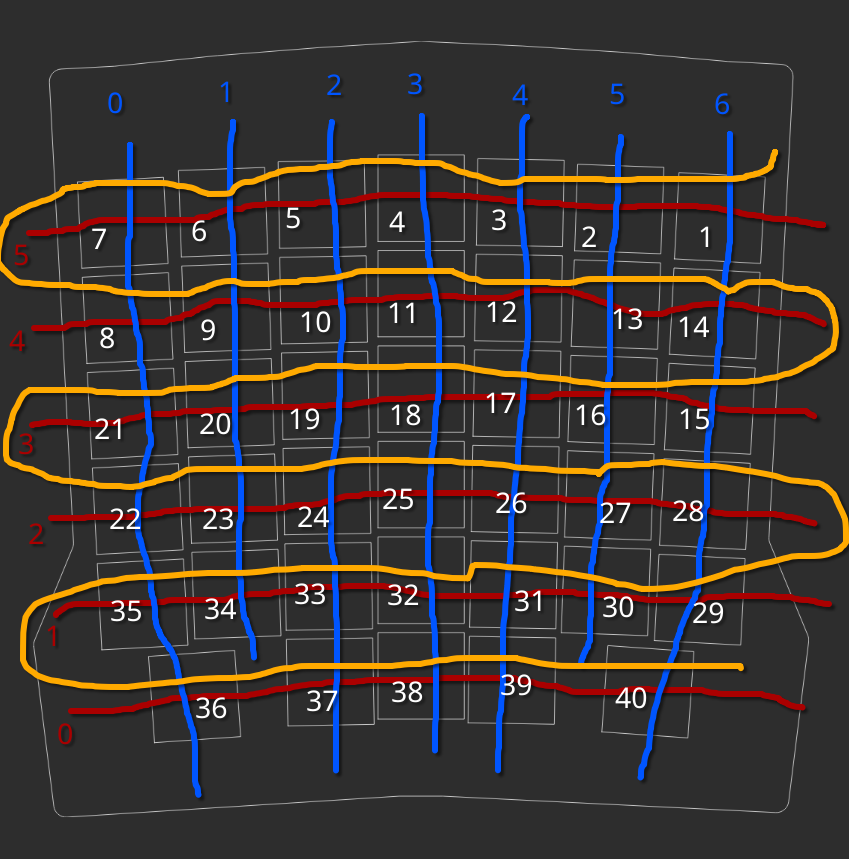
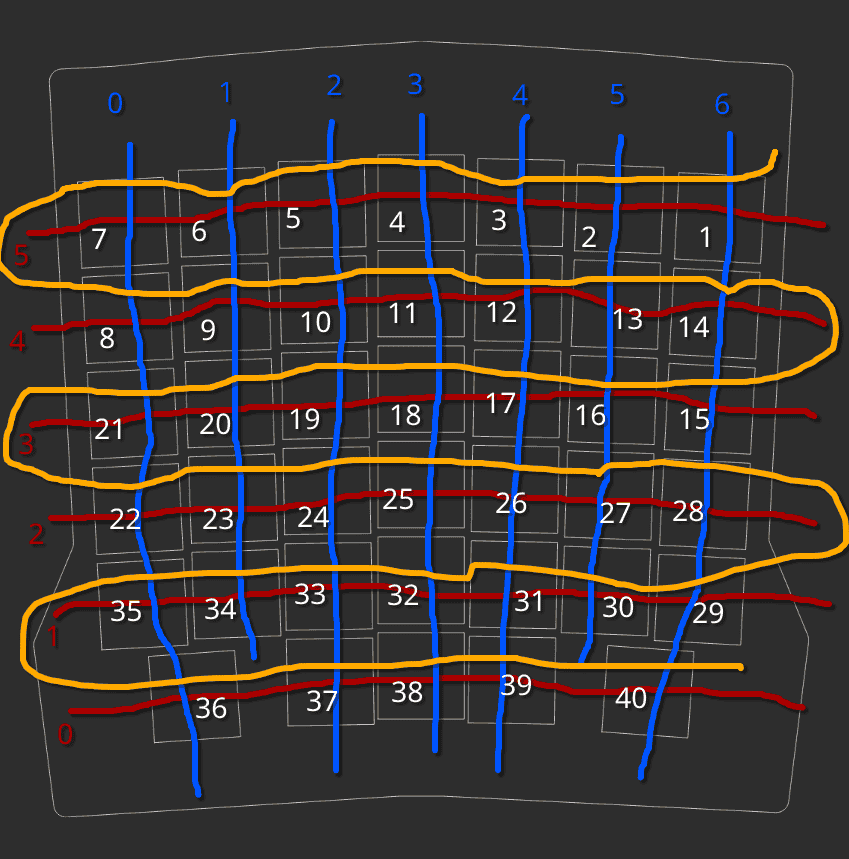
readme

diff --git a/README.md b/README.md
@@ -1,5 +1,29 @@
 # Travis's Ergogen v2026
-This is a split keyboard with 2 ortholinear symmetrical 40-key halfs. Multiple positions for an i2c OLED and mousewheel encoder.
+This is a split keyboard with 2 ortholinear symmetrical 40-key halfs made with Ergogen v4. Multiple positions for an i2c OLED and mousewheel encoder. TRRS for connecting halfs, firmware not updated for that yet though.
+
+![matrix mock up](./matrix-mock-up.png)
+
+![PCB front](./travis_erg2026_front.png)
+
+## Parts:
+
+JLCPCB SMD components (40 each per board):
+* capacitor C710467
+* diode C7420318
+* RGB LED C5378731
+* MX C41430893
+
+Other parts:
+* MCU: RP2040 Community Edition
+* capacitor 6.3V 1000uF
+* resistors 510k ohm (2 per board)
+* 2u stabilizers (2 per board)
+* TRRS PJ-320A jacks (2 per board if connecting)
+* mousewheel encoder (like Alps-EC10E1220501)
+* OLED i2c
+* MX switches (40 per board)
+* low-profile sockets/pins for MCU & OLED
+
 
 ## References:
 My previous ergogen abominations:
@@ -49,12 +73,12 @@ find ./node_modules/ -type f -print0 | xargs -0 dos2unix --
 ## TODO:
 * ~board: make those weird bottom shapes nicer~
 * plate: print a 2u stab test key
-    * print a top key test to measure for interference with i2c
-* i2c: if plate doesn't interfere with bottom ones remove top ones
-    * trrs: if top ones are removed, move left trrs to left side
+    * ~print a top key test to measure for interference with i2c~
+* ~i2c: if plate doesn't interfere with bottom ones remove top ones~
+    * ~trrs: if top ones are removed, move left trrs to left side~
 * case: just use flat one, arcs get too glitchy
-* routing
-* bom: use [kicad-jlcpcb-tools plugin](https://github.com/Bouni/kicad-jlcpcb-tools)
+* ~routing~
+* ~bom: use [kicad-jlcpcb-tools plugin](https://github.com/Bouni/kicad-jlcpcb-tools)~
 * ~leds: generate positions~
 * ~qmk firmware~
     * ~via support~
